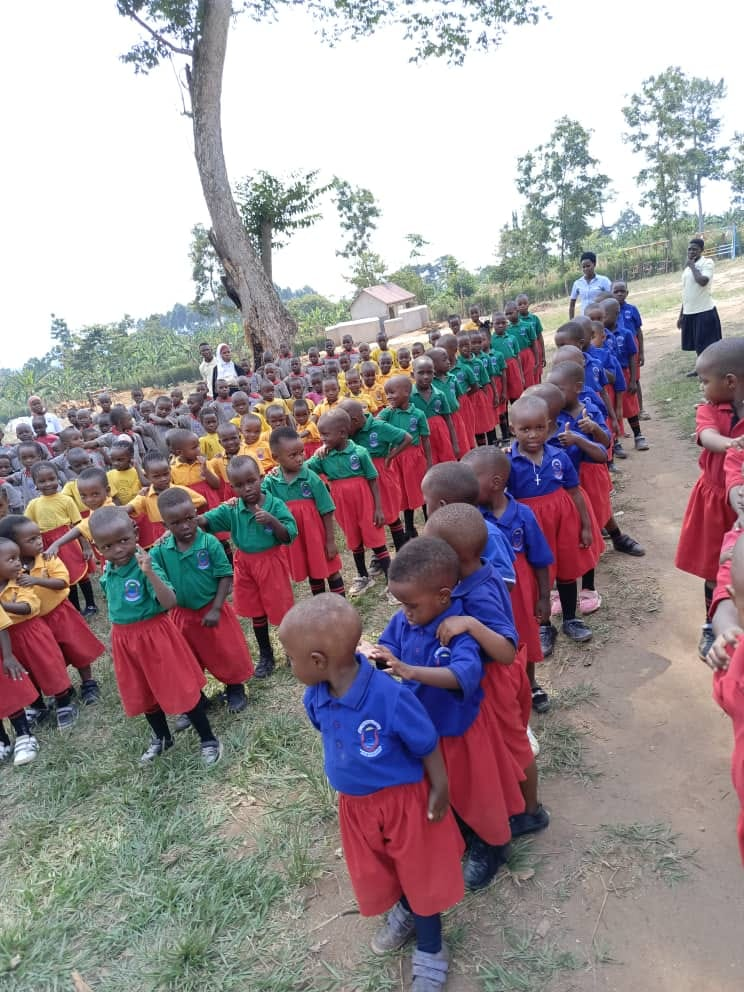
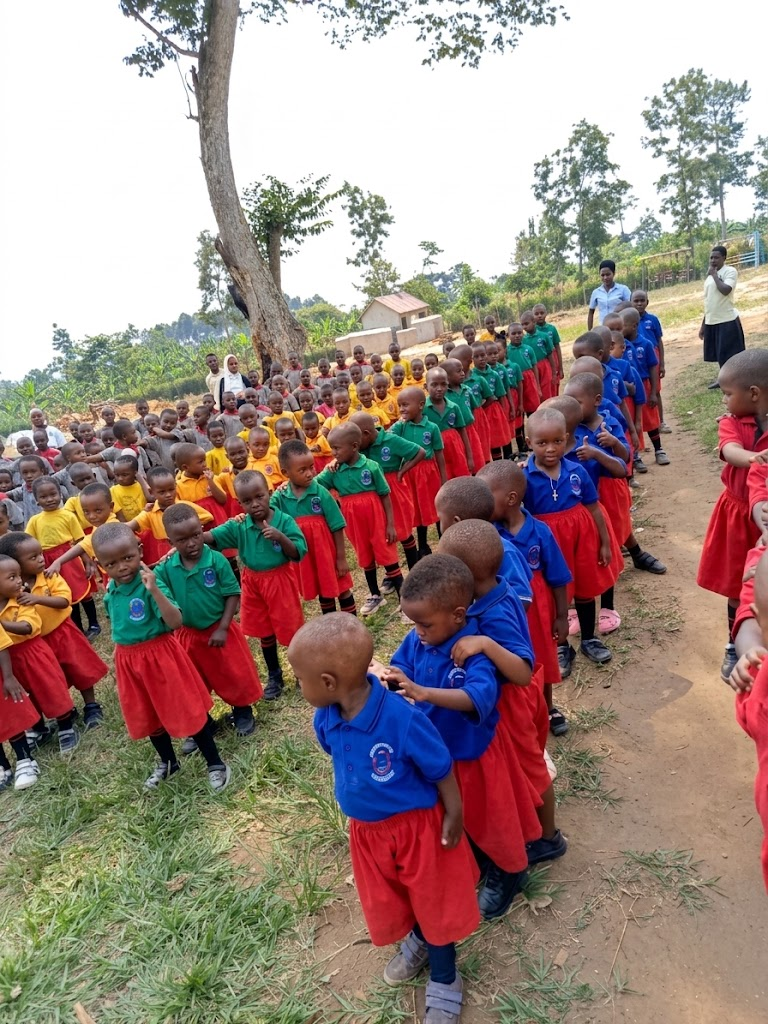
images

diff --git a/src/app/pages/HomePage.tsx b/src/app/pages/HomePage.tsx
@@ -51,7 +51,7 @@ function RevealSection({
 export default function HomePage() {
   const heroSlides = [
     {
-      src: "/images/Annex 4.jpeg",
+      src: "/images/Annex 4.png",
       alt: "St. Theresa Annex Campus Pupils",
     },
     {
